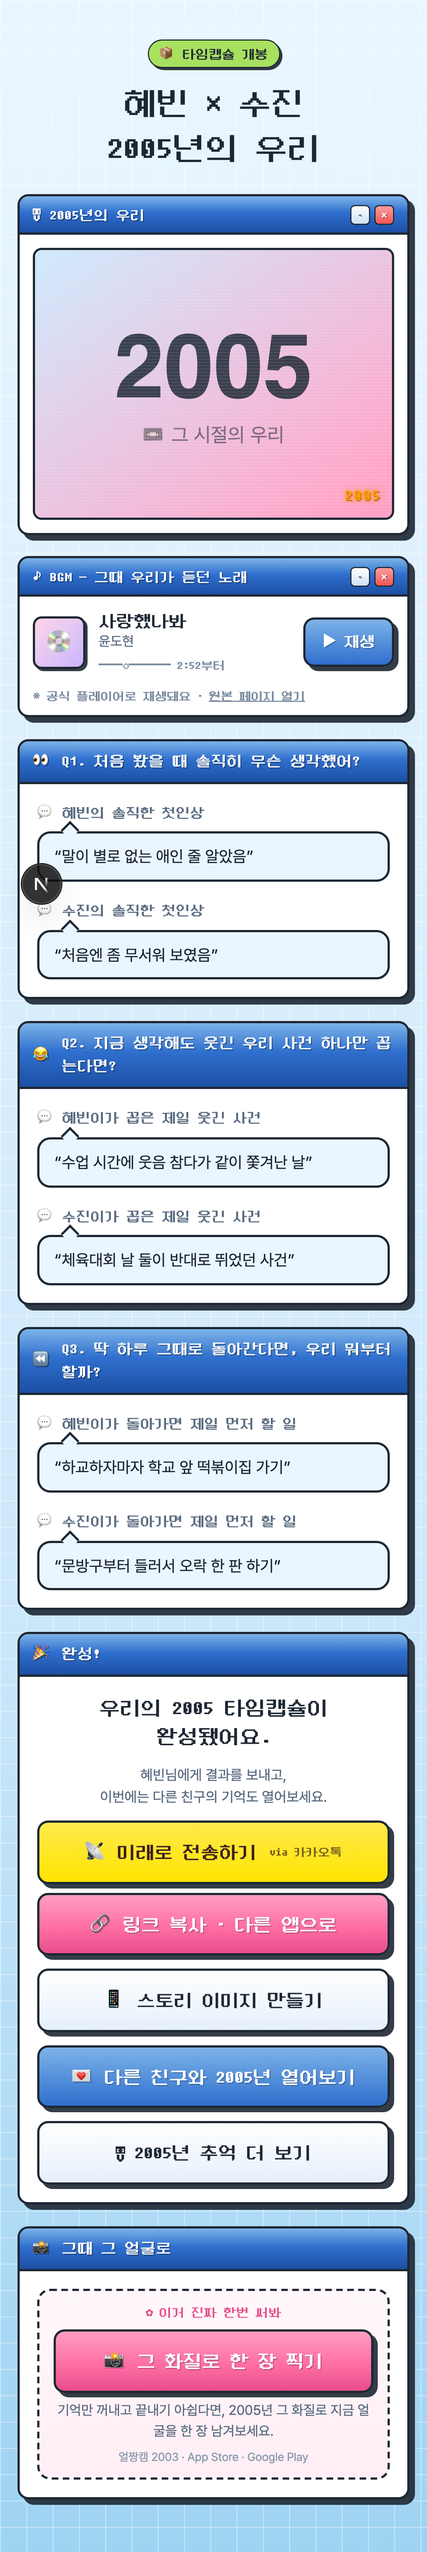
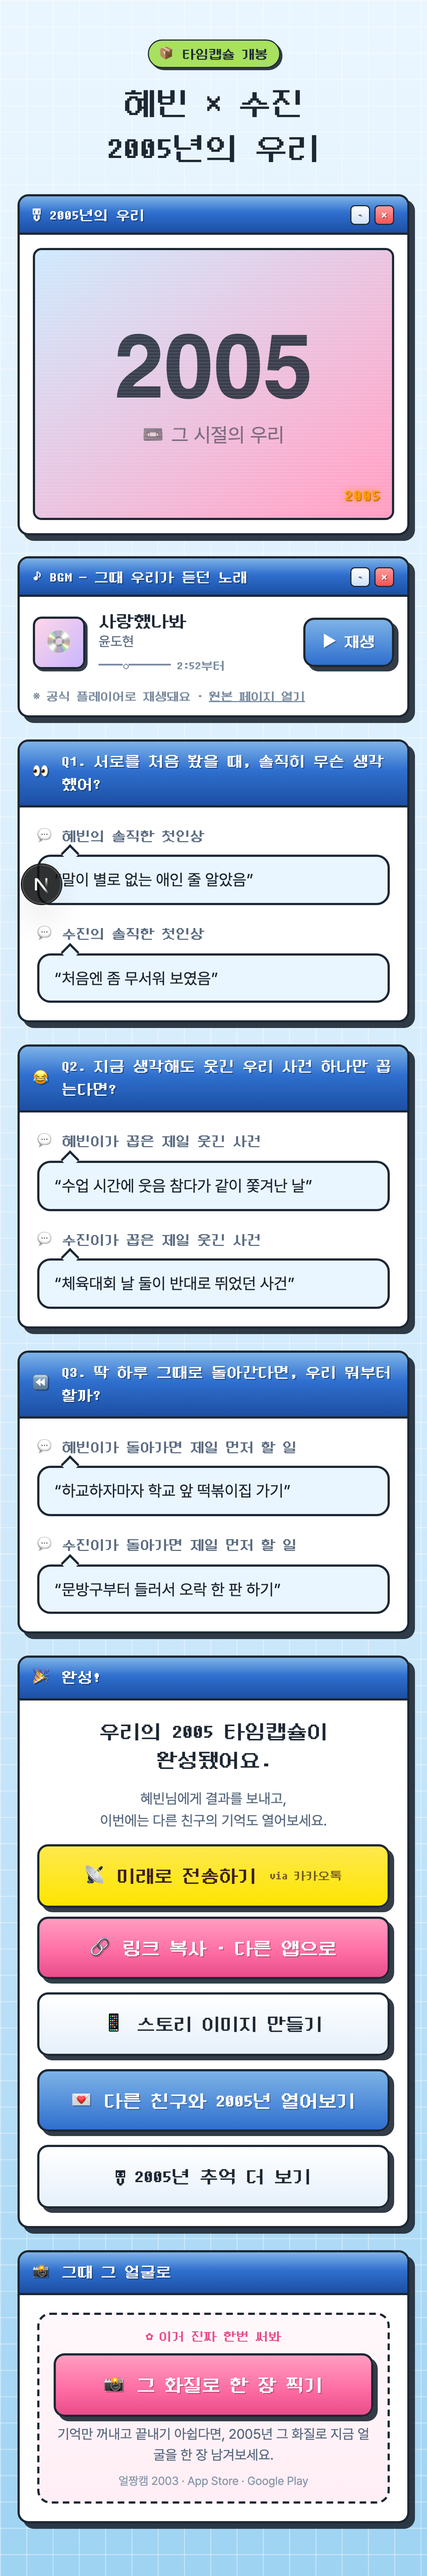
타임캡슐 Q1 문구 명확화 — 누구를 봤는지 명시
- "그 친구를 처음 봤을 때, 솔직히 무슨 생각했어?" (보내는 쪽)
- "혜빈을 처음 봤을 때, …" (받는 쪽, 보낸 사람 이름 + 을/를 자동)
- 결과 화면은 "서로를 처음 봤을 때, …"
- lib/josa.ts: nameEulReul, fillQuestion({friend} 치환)

Claude-Session: https://claude.ai/code/session_01GsC8nYLfQX65z1XwNUT8Rf

diff --git a/components/CapsuleForm.tsx b/components/CapsuleForm.tsx
@@ -5,18 +5,22 @@ import {
   CAPSULE_QUESTIONS,
   type CapsuleQuestion,
 } from "@/data/capsuleQuestions";
+import { fillQuestion } from "@/lib/josa";
 
 export default function CapsuleForm({
   initialName,
   nameLabel,
   submitLabel,
   questions = CAPSULE_QUESTIONS,
+  friendName,
   onSubmit,
 }: {
   initialName: string;
   nameLabel: string;
   submitLabel: string;
   questions?: CapsuleQuestion[];
+  /** 상대 친구 이름 — 질문의 {friend} 치환용. 모르면 "그 친구" */
+  friendName?: string;
   onSubmit: (name: string, answers: string[]) => void | Promise<void>;
 }) {
   const [name, setName] = useState(initialName);
@@ -61,7 +65,7 @@ export default function CapsuleForm({
       {questions.map((q, i) => (
         <label key={q.id} className="flex flex-col gap-1.5">
           <span className="font-pixel text-[15px]">
-            {q.emoji} Q{i + 1}. {q.text}
+            {q.emoji} Q{i + 1}. {fillQuestion(q.text, friendName)}
           </span>
           <textarea
             className="pixel-input"

diff --git a/lib/josa.ts b/lib/josa.ts
@@ -15,3 +15,25 @@ export function nameIga(name: string): string {
 export function fillLabel(label: string, name: string): string {
   return label.replaceAll("{name}이(가)", nameIga(name)).replaceAll("{name}", name);
 }
+
+/** 이름 + 을/를 (받침 유무로 선택). 예: 혜빈 → 혜빈을, 수지 → 수지를 */
+export function nameEulReul(name: string): string {
+  const last = name.trim().slice(-1);
+  const code = last.charCodeAt(0);
+  const hangul = code >= 0xac00 && code <= 0xd7a3;
+  const hasBatchim = hangul ? (code - 0xac00) % 28 !== 0 : false;
+  return `${name.trim()}${hasBatchim ? "을" : "를"}`;
+}
+
+/**
+ * 질문 문장의 {friend} 를 상대 이름(을/를 포함)으로 치환.
+ * 상대 이름을 아직 모르면(보내는 쪽) "그 친구를".
+ */
+export function fillQuestion(
+  text: string,
+  friendName?: string,
+  fallback = "그 친구를",
+): string {
+  const who = friendName && friendName.trim() ? nameEulReul(friendName) : fallback;
+  return text.replaceAll("{friend}", who);
+}

diff --git a/data/capsuleQuestions.ts b/data/capsuleQuestions.ts
@@ -89,7 +89,14 @@ export const CAPSULE_QUESTIONS_V2: CapsuleQuestion[] = [
  * 문항을 바꾸면 반드시 새 버전(v4)으로 추가하고, 기존 배열은 지우지 않는다 (저장된 캡슐이 참조).
  */
 export const CAPSULE_QUESTIONS: CapsuleQuestion[] = [
-  CAPSULE_QUESTIONS_V2[0], // 처음 봤을 때 솔직히 무슨 생각했어?
+  {
+    // {friend} 는 화면에서 상대 이름(+을/를)으로 치환된다 — 보내는 쪽은 "그 친구를", 받는 쪽은 "혜빈을"
+    id: "first-impression",
+    emoji: "👀",
+    text: "{friend} 처음 봤을 때, 솔직히 무슨 생각했어?",
+    placeholder: "예: 무서워 보였는데 먼저 말 걸어줘서 의외였어",
+    resultLabel: "{name}의 솔직한 첫인상",
+  },
   CAPSULE_QUESTIONS_V2[3], // 지금 생각해도 웃긴 우리 사건 하나만 꼽는다면?
   CAPSULE_QUESTIONS_V2[4], // 딱 하루 그때로 돌아간다면, 우리 뭐부터 할까?
 ];

diff --git a/app/capsule/result/CapsuleResultClient.tsx b/app/capsule/result/CapsuleResultClient.tsx
@@ -15,7 +15,7 @@ import {
   type CapsuleResult,
 } from "@/lib/capsule";
 import { decryptCapsule, getCapsuleKeyFromHash } from "@/lib/capsuleCrypto";
-import { fillLabel } from "@/lib/josa";
+import { fillLabel, fillQuestion } from "@/lib/josa";
 import { trackEvent } from "@/lib/analytics";
 
 function AnswerBlock({ label, answer }: { label: string; answer: string }) {
@@ -182,7 +182,7 @@ export default function CapsuleResultClient({
           <div className="window-titlebar">
             <span aria-hidden>{question.emoji}</span>
             <span>
-              Q{index + 1}. {question.text}
+              Q{index + 1}. {fillQuestion(question.text, undefined, "서로를")}
             </span>
           </div>
           <div className="p-4 flex flex-col gap-4">

diff --git a/app/capsule/CapsuleInviteClient.tsx b/app/capsule/CapsuleInviteClient.tsx
@@ -226,6 +226,7 @@ export default function CapsuleInviteClient({
           nameLabel="친구가 알아볼 내 이름"
           submitLabel="🔓 타임캡슐 열기"
           questions={questions}
+          friendName={invite.from}
           onSubmit={handleSubmit}
         />
         {error ? (
